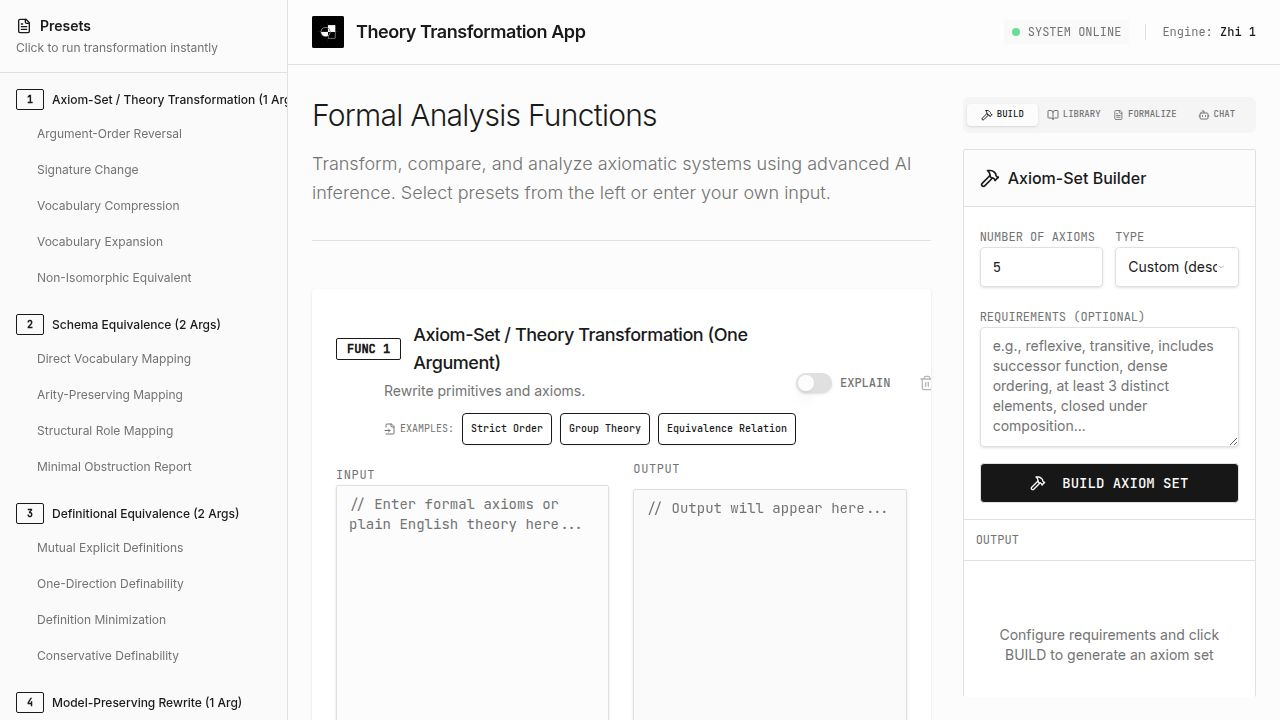
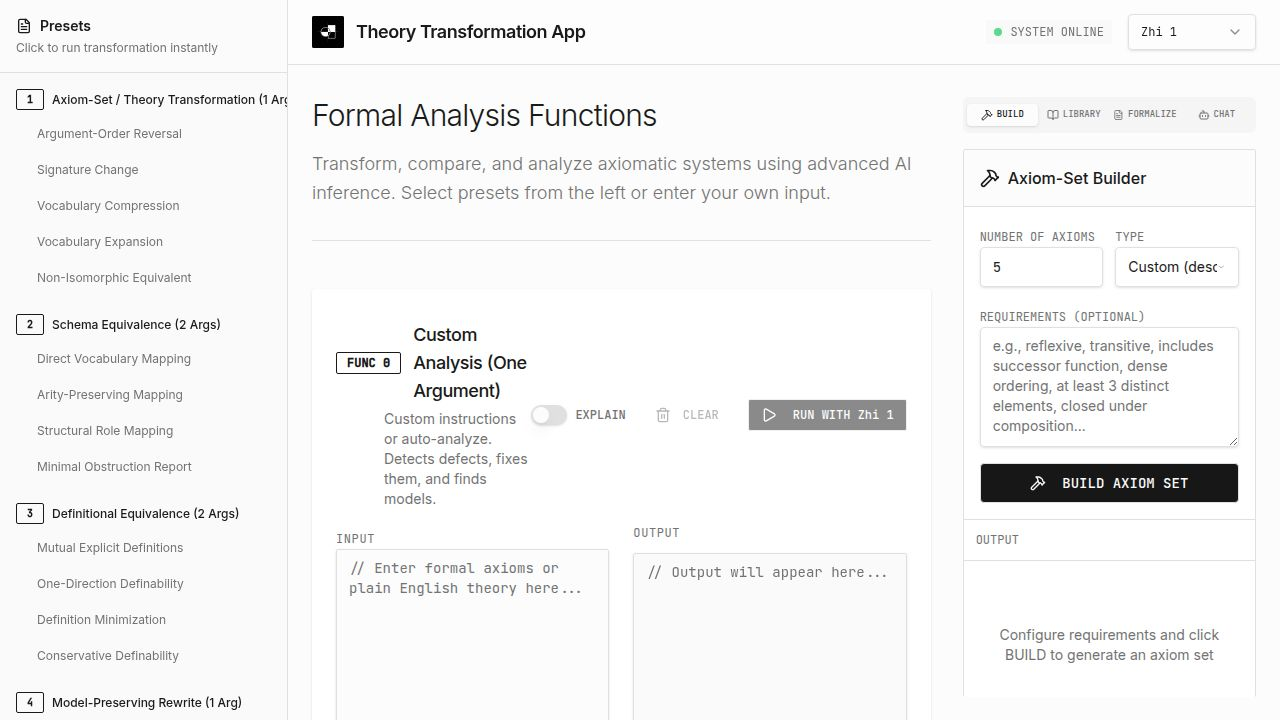
Add custom analysis function with default intelligent operations
Add a new "Custom Analysis" function to the app at the top position, including default instructions for defect detection, axiom fixing, model finding, and significance analysis.

Replit-Commit-Author: Agent
Replit-Commit-Session-Id: c00abae5-28b6-4fce-ba8a-cd70d72a6108
Replit-Commit-Checkpoint-Type: full_checkpoint
Replit-Commit-Event-Id: c11590dc-970a-4f57-964d-96b392d4db3c
Replit-Commit-Screenshot-Url: https://storage.googleapis.com/screenshot-production-us-central1/bcc16047-2de8-467e-8785-a7a65e96f6ee/c00abae5-28b6-4fce-ba8a-cd70d72a6108/R0oJw9L

diff --git a/server/ai-service.ts b/server/ai-service.ts
@@ -50,6 +50,26 @@ export interface AIResponse {
 }
 
 const DEFAULT_INSTRUCTIONS: Record<string, string> = {
+  "Custom Analysis": `TASK: You perform one of the following based on the axiom quality:
+
+IF THE AXIOMS ARE DEFECTIVE (contradictory, malformed, or inconsistent):
+1. Identify and fix the defects
+2. Explain what was wrong
+3. Find a TRUE MODEL for the corrected axiom set
+4. Output a paragraph on the significance of the corrected axioms and model
+
+IF THE AXIOMS ARE NON-DEFECTIVE (consistent and well-formed):
+1. Find a TRUE MODEL for the axiom system
+2. Output a paragraph on the significance of the axioms and model
+
+OUTPUT FORMAT:
+- Analysis of axiom quality (defective or non-defective)
+- If defective: repairs made and explanation
+- Model: Domain, interpretation of each symbol, plain-English explanation
+- Significance paragraph: what do these axioms represent? Why are they important? What conceptual or mathematical territory do they cover?
+
+Be CONCRETE and INTUITIVE - avoid jargon unless intrinsic to the domain. Use the SIMPLEST model that satisfies all axioms.`,
+
   "Axiom-Set / Theory Transformation": `Produce a model-preserving syntactic transformation of the input theory by introducing new primitives or eliminating old ones. The transformation must preserve models up to definitional equivalence.`,
   
   "Schema Equivalence": `Determine whether the two input theories (or schemas) are logically equivalent: i.e., they prove exactly the same theorems in all models. Answer with one of:

diff --git a/client/src/pages/home.tsx b/client/src/pages/home.tsx
@@ -22,6 +22,7 @@ export default function Home() {
   const functionRefs = useRef<{ [key: number]: HTMLDivElement | null }>({});
 
   const functions = [
+    { id: 0, title: "Custom Analysis (One Argument)", description: "Custom instructions or auto-analyze. Detects defects, fixes them, and finds models.", dualInput: false },
     { id: 1, title: "Axiom-Set / Theory Transformation (One Argument)", description: "Rewrite primitives and axioms.", dualInput: false },
     { id: 2, title: "Schema Equivalence (Two Arguments)", description: "Model-theoretic sameness check.", dualInput: true },
     { id: 3, title: "Definitional Equivalence (Two Arguments)", description: "Bi-directional definitional translation.", dualInput: true },
